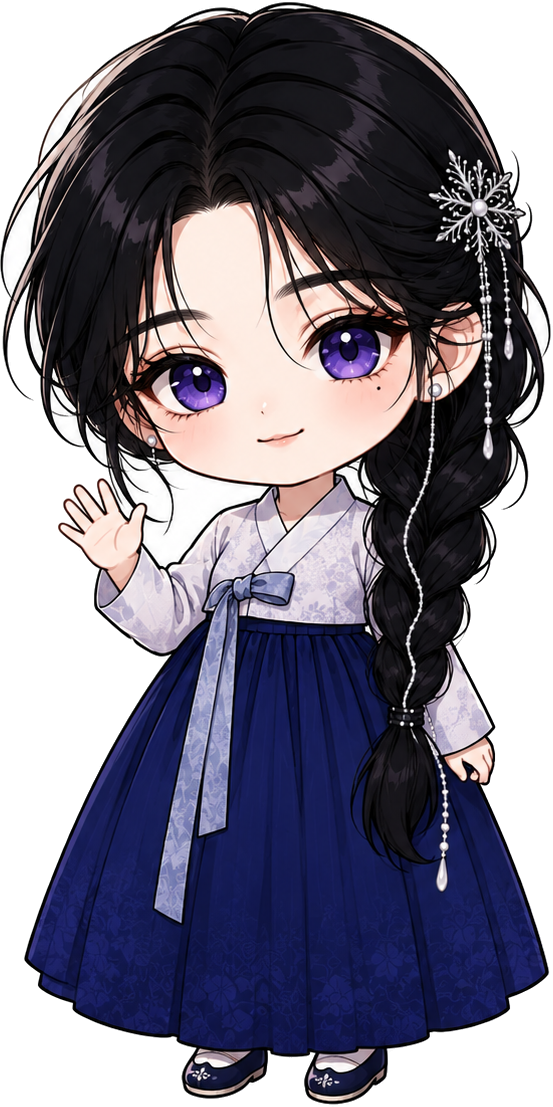
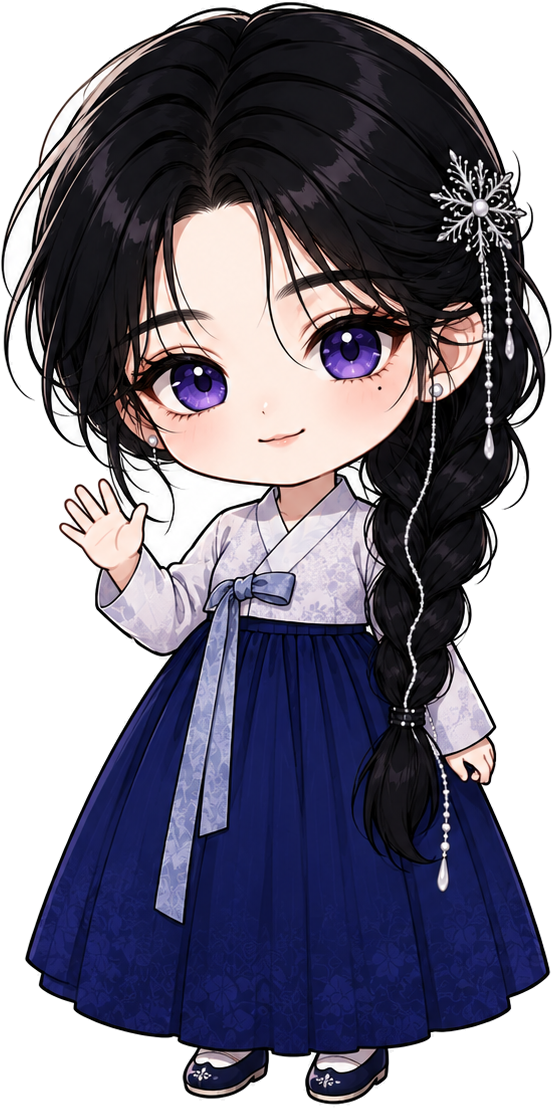
프롤로그가 미니 캐릭터에 스펙 숫자를 달고 있던 것 — 메인 컷으로 바꾸고 누끼를 다시 딴다
형님 지적 셋을 그대로 고쳤다.

1. **「10장 · 10,252자 · 5개 달」 숫자 칸을 뺐다.** 이건 레퍼런스에 없는 내 창작이었다 —
   타이트 티저의 「5만 자·100페이지」 스펙 어필을 결과지 안으로 옮긴 것인데, 그건 **결제 전** 카피지
   받은 사람에게 할 말이 아니다. 물성은 목차 10줄이 이미 보여준다.
2. **인사를 메인 캐릭터로.** 청월당 프롤로그도 SD 가 아니라 큰 일러다(SD 는 본문 중간 추임새 자리).
   j1 은 자산 README 가 「직녀 소개·어서 와요」로 지정해 둔 컷이라 자리가 정확히 맞는다.
   방금 세운 컷 문법(반신 + 말풍선 걸침)을 그대로 적용했다.
3. **누끼 재작업.** 기존 -cut 은 밝기 임계로 한 번에 자른 것이라 반투명 픽셀이 957개(0.16%)뿐 —
   경계가 계단이 되고 흰 성분이 배어 남았다(프린지). 제대로 다시 땄다:
   가장자리 플러드필로 **바깥 흰색만** 배경으로 잡고(안쪽 흰 저고리·눈 흰자는 보존),
   블러로 부드러운 알파를 만든 뒤, C = a*F + (1-a)*255 를 뒤집어 **디프린지**했다.
   반투명 957 → 7,649px. 밤·한지 두 배경에 합성해 눈으로 확인.

덤: j1·SD 누끼를 webp 로(2.0MB → 125KB, 827KB → 111KB).

diff --git a/src/components/saju/JiknyeoInterlude.tsx b/src/components/saju/JiknyeoInterlude.tsx
@@ -120,7 +120,7 @@ function Band({
   }
 
   // ── SD 문법 — 가벼운 자리(청월당도 반신과 SD 를 섞어 쓴다) ──
-  const face = assetSrc(`/products/jiknyeo/${sd}-cut.png`) ?? assetSrc(`/products/jiknyeo/${sd}.png`);
+  const face = assetSrc(`/products/jiknyeo/${sd}-cut.webp`) ?? assetSrc(`/products/jiknyeo/${sd}-cut.png`);
   return (
     <div style={{ margin: "20px 0 0" }}>
       <div style={{ display: "flex", alignItems: "flex-end", justifyContent: "center", gap: 4 }}>
@@ -493,21 +493,14 @@ export function CutInterlude({ id, say }: { id: string; say: string }) {
 export function Prologue({
   who,
   chapters,
-  charCount,
-  monthCount,
-  isMarriage,
 }: {
   who: string;
   /** 장 제목 목록 — 목차 카드에 그대로 쓴다 */
   chapters: string[];
-  charCount: number;
-  monthCount: number;
-  isMarriage: boolean;
 }) {
   const name = who || "그대";
   // 고민에 답하는 장 — 제목으로 찾는다(장 수가 바뀌어도 따라오게)
   const askIdx = chapters.findIndex((t) => /고민|물음/.test(t));
-  const num = (n: number) => n.toLocaleString("ko-KR");
   return (
     // 프롤로그 전체를 **한지 판 하나**에 담는다 — 청월당도 인사~목차가 같은 종이 위에 있다.
     <div
@@ -522,51 +515,48 @@ export function Prologue({
         boxShadow: "0 10px 30px rgba(42,36,52,.10)",
       }}
     >
-      {/* 인사 — 말풍선이 화면의 주인공(실측 규격 lg) */}
-      <div style={{ display: "flex", alignItems: "flex-end", justifyContent: "center", gap: 2 }}>
-        <Bubble
-          lines={[`${name}님,`, "기다리고 있었어요.", "오늘 것부터 열게요."]}
-          size="lg"
-          tail="bl"
-        />
-        {(() => {
-          const face = assetSrc("/products/jiknyeo/sdSmile-cut.png");
-          if (!face) return null;
-          // eslint-disable-next-line @next/next/no-img-element
-          return <img src={face} alt="" draggable={false} className="flex-none select-none"
-            style={{ width: 92, height: 120, objectFit: "contain", objectPosition: "bottom", marginBottom: -8, marginLeft: -10 }} />;
-        })()}
-      </div>
-
-      {/* 물성 — 받은 양을 숫자로 못박는다. 21,838px 를 손님은 셀 수 없다 */}
-      <div
-        style={{
-          marginTop: 14,
-          display: "grid",
-          gridTemplateColumns: "repeat(3, 1fr)",
-          gap: 8,
-        }}
-      >
-        {[
-          [`${chapters.length}`, "장"],
-          [num(charCount), "자"],
-          [`${monthCount}`, isMarriage ? "개 시기" : "개 달"],
-        ].map(([big, small]) => (
-          <div
-            key={small}
-            style={{
-              textAlign: "center",
-              padding: "11px 6px",
-              borderRadius: 12,
-              background: "#FFFFFF",
-              border: "1px solid rgba(201,169,78,.45)",
-            }}
-          >
-            <p className="font-myeongjo" style={{ fontSize: 21, fontWeight: 700, color: "#3A2E12", lineHeight: 1.1 }}>{big}</p>
-            <p style={{ marginTop: 3, fontSize: 11.5, color: "#6B4C9A" }}>{small}</p>
+      {/* 인사 — **메인 캐릭터가 화면 크게** 나온다. 청월당 프롤로그도 SD 가 아니라 큰 일러다
+          (SD 는 본문 중간 추임새 자리). j1 은 README 가 「직녀 소개·어서 와요」로 지정한 컷이다. */}
+      {(() => {
+        const hero = assetSrc("/products/jiknyeo/j1.webp") ?? assetSrc("/products/jiknyeo/j1.png");
+        if (!hero) {
+          return (
+            <div style={{ display: "flex", justifyContent: "center" }}>
+              <Bubble lines={[`${name}님,`, "기다리고 있었어요.", "오늘 것부터 열게요."]} size="lg" tail="bl" />
+            </div>
+          );
+        }
+        return (
+          <div style={{ position: "relative", paddingBottom: 64 }}>
+            <div
+              style={{
+                position: "relative",
+                width: "84%",
+                marginLeft: "auto",
+                overflow: "hidden",
+                borderRadius: 14,
+                background: "#EFE9DC",
+              }}
+            >
+              {/* eslint-disable-next-line @next/next/no-img-element */}
+              <img
+                src={hero}
+                alt=""
+                draggable={false}
+                className="w-full select-none"
+                style={{ aspectRatio: "4 / 5", objectFit: "cover", objectPosition: "center 12%", display: "block" }}
+              />
+              <div
+                className="pointer-events-none absolute inset-x-0 bottom-0"
+                style={{ height: "42%", background: "linear-gradient(180deg, rgba(250,247,240,0), rgba(250,247,240,.92) 76%, #faf7f0)" }}
+              />
+            </div>
+            <div style={{ position: "absolute", left: 0, bottom: 0, zIndex: 2 }}>
+              <Bubble lines={[`${name}님,`, "기다리고 있었어요.", "오늘 것부터 열게요."]} size="lg" tail="br" />
+            </div>
           </div>
-        ))}
-      </div>
+        );
+      })()}
 
       {/* 자기 증명 — 우리만 하는 것을 우리만 한다고 말한다.
           랜딩엔 있는 문구가 정작 결과지 안엔 없었다(손님은 비교 대상이 없어 유일함을 모른다) */}

diff --git a/src/components/saju/JiknyeoResult.tsx b/src/components/saju/JiknyeoResult.tsx
@@ -311,13 +311,7 @@ export function JiknyeoResult({
       </div>
 
       {/* ── ⓪ 프롤로그 — 인사·물성·목차. 결제 직후 1초는 정보가 아니라 환대를 원한다 ── */}
-      <Prologue
-        who={who}
-        chapters={chapters.map((c) => c.title)}
-        charCount={markdown.replace(/[#*=>\-]/g, "").length}
-        monthCount={top3.length + shaky.length}
-        isMarriage={isMarriage}
-      />
+      <Prologue who={who} chapters={chapters.map((c) => c.title)} />
 
       {/* ── ① 예보판 — 티저에서 가렸던 달 이름을 전부 연다 ── */}
       {months.length > 0 && (
